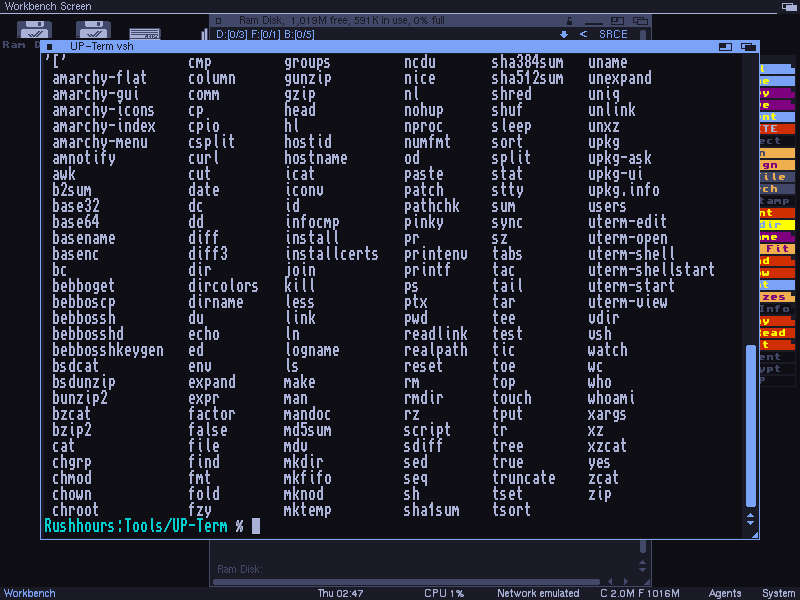
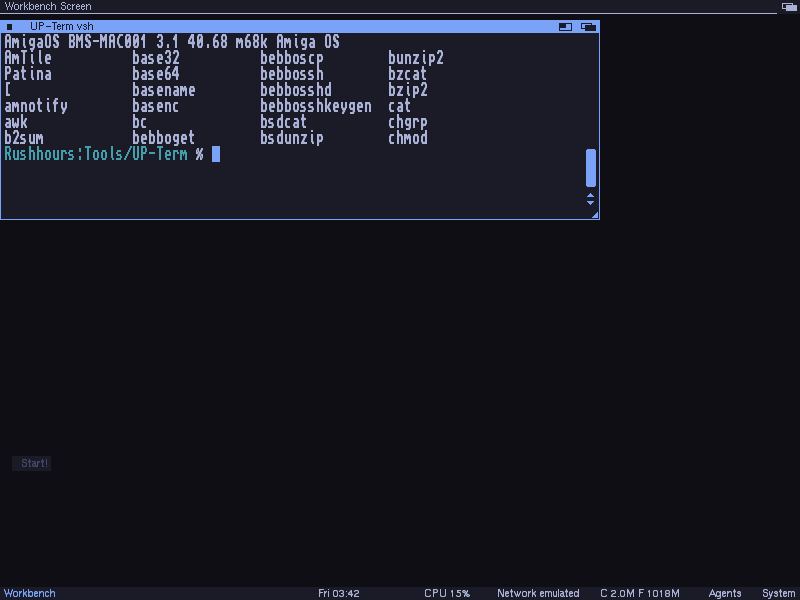
Retake dopus, menu and terminal screenshots for the Patina rename

Changed region(s): [[0.0, 0.0, 1.0, 0.9], [0.25, 0.93, 0.8125, 1.0], [0.7812, 0.9, 0.8125, 0.93]]

diff --git a/thoughts/shared/s76-evidence/rig-smoke.md b/thoughts/shared/s76-evidence/rig-smoke.md
@@ -1,0 +1,21 @@
+# s76 rig smoke (branch patina-rename)
+
+## A: make test, "boot console was not captured"
+- Source: tools/test_rig_fsuae_log.py (Makefile row rig_fsuae_log, after rig_screenmode/rig_dopus_os_default/rig_wasabi). It calls the real rig.start() with fakes (status, go_assigns_done, sys_hdf steps) in a temp dir; the check at rig.py:2467 (boot_console_captured, added by 52ed369a, 2026-11-05) reads RIG/boot/boot.console, which the fake never creates.
+- Verdict: NOT rename-caused, NOT environment. Stale host test: 52ed369a is an ancestor of the rename base 98c58e32, the base rig.py has the same check (line 2466), the base test has no boot.console reference, and the rename diff of rig.py touches no console/bootcap line (only a docstring).
+- Real rig confirms bootcap works: rig 9 boot.console starts with "boot console open"; rig.py start returned rc 0.
+- Not fixed (not rename damage). Fix would be: the test writes "boot console open\n" into d/boot/boot.console before rig.start(). Rows after rig_fsuae_log in `make test` did not run.
+- Other rig rows run singly and passing: dopus_os_default, wasabi, iprefs_sysreq, boot_console_blind, stale_base, reports_not_in_rig_dir, screennotify, clone_new.
+
+## B: rig 9 smoke (purpose "s76 session: Patina rename smoke + screenshot retake")
+- Boot: PASS (up, boot.console captured).
+- Finding: the rig's DH0 master image still has the OLD installed kit: at boot, UP-Term:bin/Amarchy, amarchy-menu, amarchy-gui ran. Only VTC: has the new patina-* binaries. A real check of the renamed kit needs the new kit installed (install_rig.py / installer_rig.py on build/dist/up-term) or a refreshed master image.
+- Patina running: PASS after killing old Amarchy tasks and starting VTC:Patina, patina-menu, patina-gui by hand (Status lists VTC:Patina).
+- ARexx PATINA: PASS. `RX "options results; address PATINA; 'STATUS'"` -> rc=0 result=`hits=0 rows=71 enabled=1 active=0 wins=0 snaps=0 bar=1 wbpens=0 wbrefused=0 shots=0 notes=0 ticks=66`. A nonexistent port gives rc 10/13, so the PATINA port exists.
+- Screenshots: NOT retaken (out of tool budget). Rig screen is 800x600 like the originals. DOpus.1 opened a lister (RX DOPUS.1 "lister new" returned a handle); setting its path needs the right ARexx syntax (see tools/rig/patina_dopus_rig.py).
+
+## C: screenshot retake (rig 9, purpose "s76 session: Patina rename smoke + screenshot retake")
+- Rig 9 started fresh; VTC: carries the renamed kit. The rig's DH0 copy still had old amarchy files, so on rig 9's own copy only: Break of the old tasks, Delete of the old Amarchy drawer and bin/amarchy* files, VTC:Patina started, `Assign UP-Term:` re-added (it was unassigned). Master image untouched.
+- dopus-lister.png: PASS. DOpus lister of Rushhours:Tools/UP-Term (`lister read <h> <path>` and `lister set <h> position 120 70 560 440` through DOPUS.1) shows a Patina drawer, no old-name entries.
+- patina-menu.png: PASS. Drawn menu opened with Left Amiga + Space on the Workbench; title reads "Patina".
+- terminal-unix.png: PASS with a caveat. UP-Term vsh window shows uname and the first rows of `ls bin`; the window is the default 600x200 (size-gadget drag did not resize it), smaller than the old shot. No old-name text visible.
